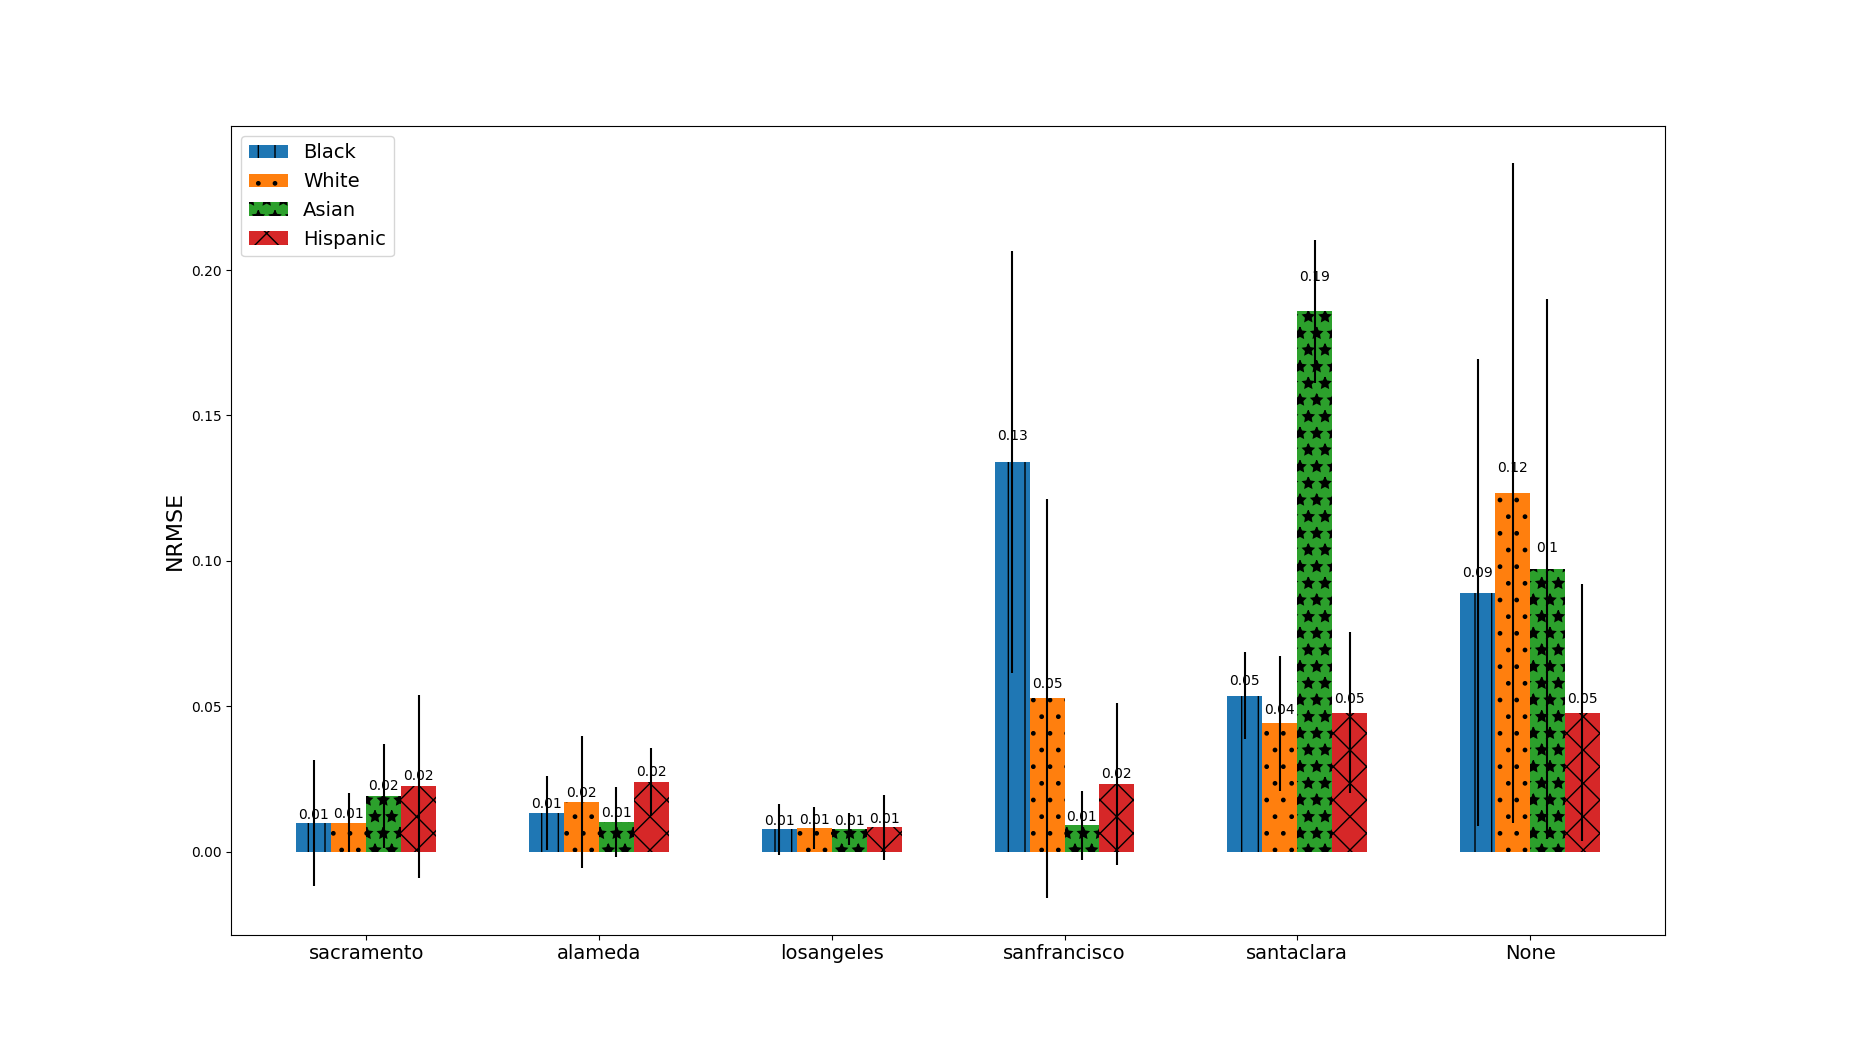
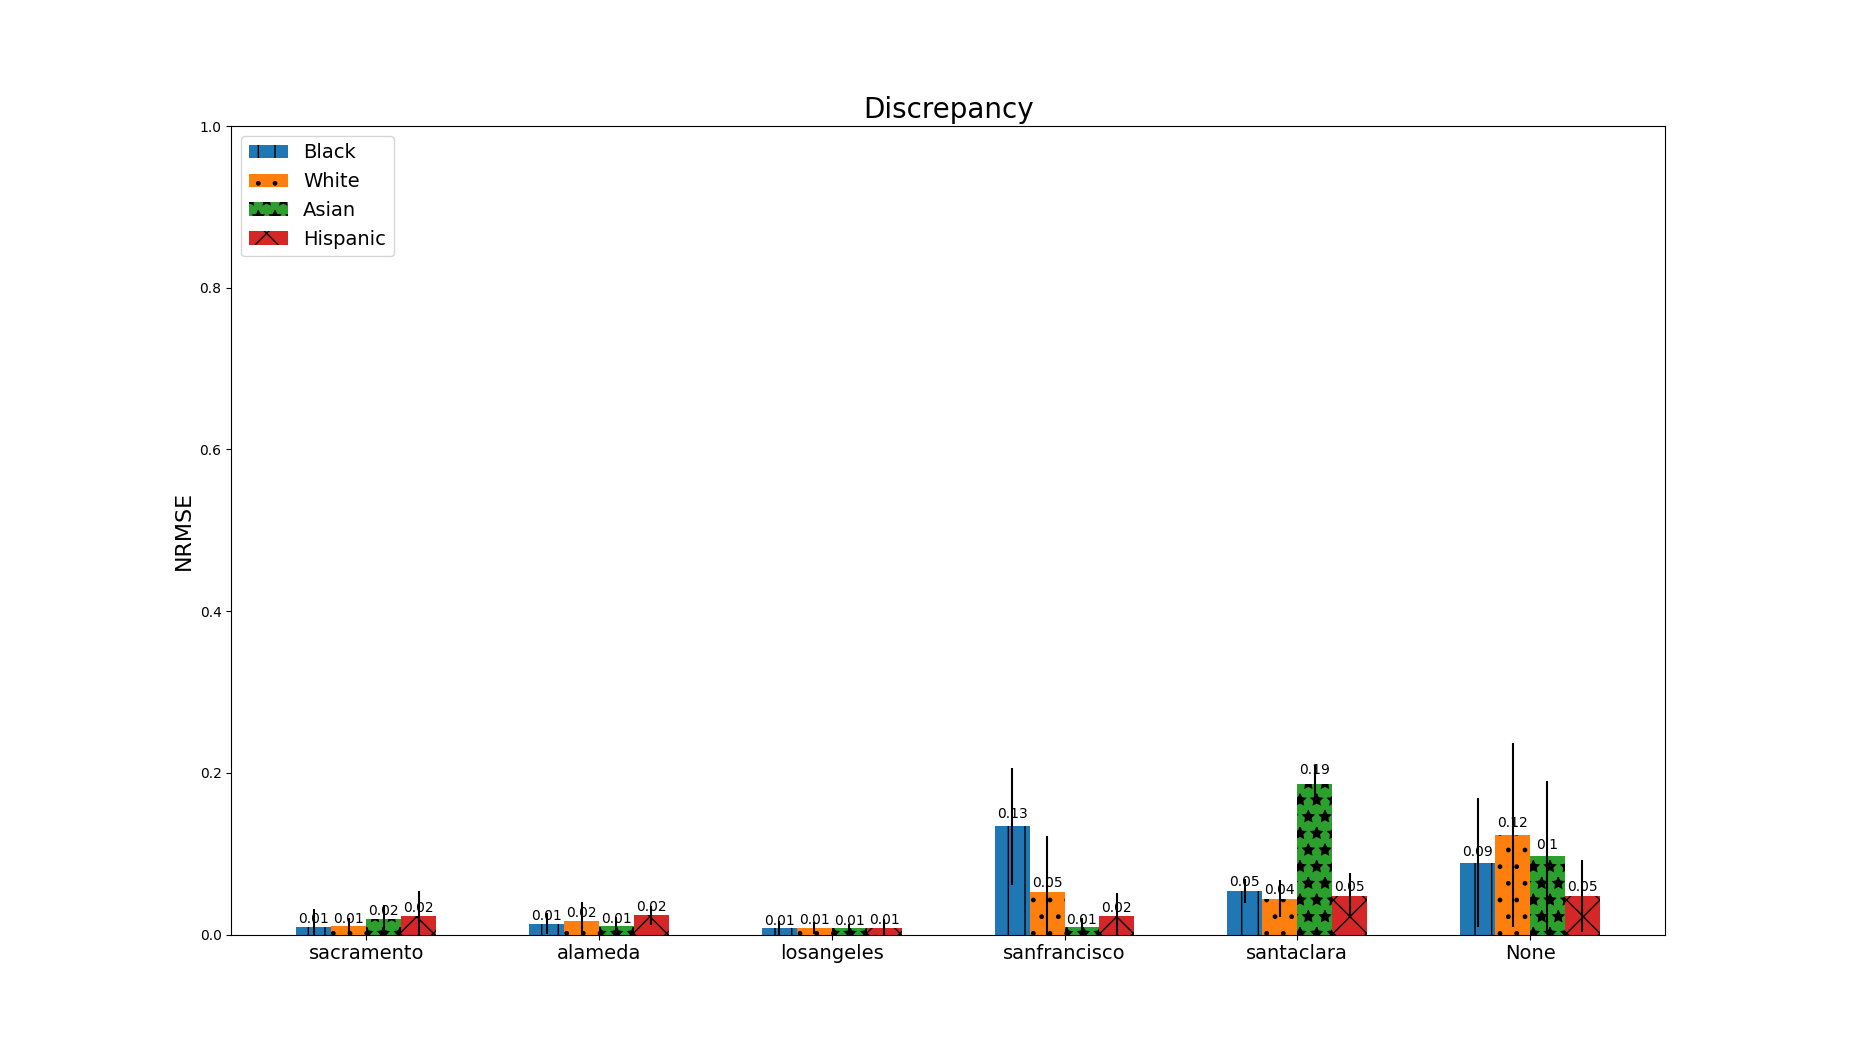
Update visualization and configs for acs metadata

diff --git a/visualization/paper_visuals.py b/visualization/paper_visuals.py
@@ -158,7 +158,7 @@ def plot_correlations(state_name: str, corr_key: str = 'discrepancy', type_: str
 
 
 def plot_nrmse(state_name: str, reg_key: str = 'discrepancy', train_counties: List[str] = ['None'], val_counties: List[str] = ['None'], test_counties: List[str] = ['None'],
-               reg_type: str = 'multilinear_lasso', type_: str = 'cases', ml_mode: str = 'test', delta: float = 0.15):
+               reg_type: str = 'multilinear_lasso', type_: str = 'deaths', ml_mode: str = 'train', delta: float = 0.15):
     title_map = {'discrepancy': 'Discrepancy', 'mortality_rate': 'Mortality Rate (per 1000)'}
     if ml_mode == 'train':
         overall_csv = f'states/california/regression_results_csvs/{reg_type}/{type_}_{reg_key}_{reg_type}_results_Black_White_Asian_Hispanic.csv'
@@ -230,6 +230,7 @@ def plot_nrmse(state_name: str, reg_key: str = 'discrepancy', train_counties: Li
     ax1.set_xticks(ind + delta + delta/2.0)
     ax1.set_xticklabels(unique_county_list, fontsize=14)
     ax1.set_title(f'{title_map[reg_key]}', fontsize=20)
+    ax1.set_ylim((0, 1.0))
 
 
     ax1.legend(ethnicity_list, loc='upper left', fontsize=14)
